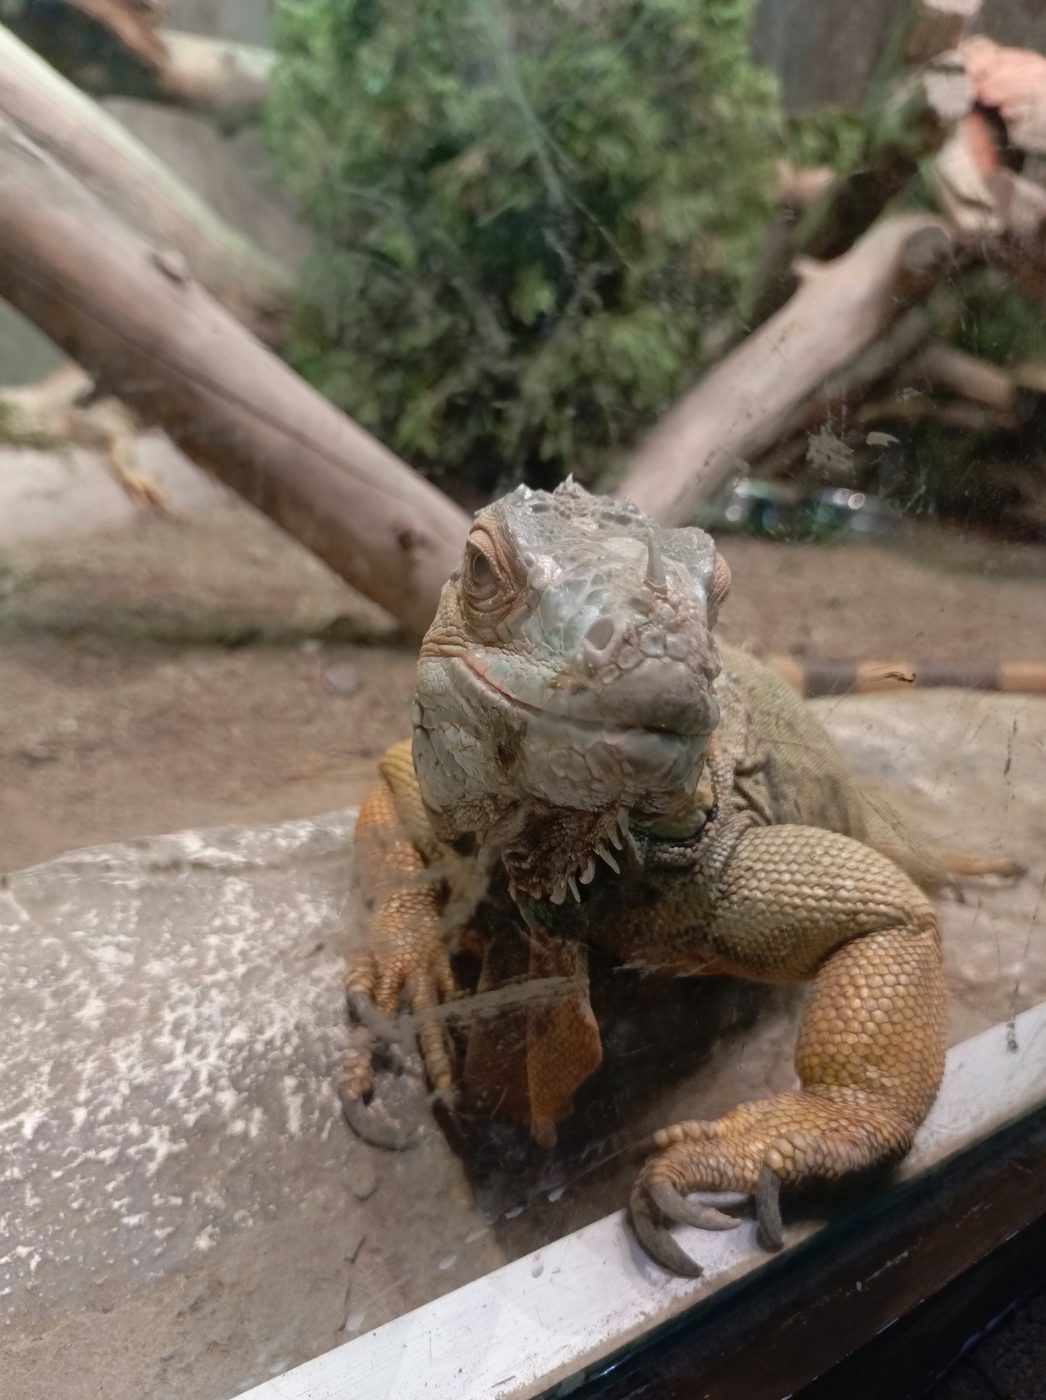
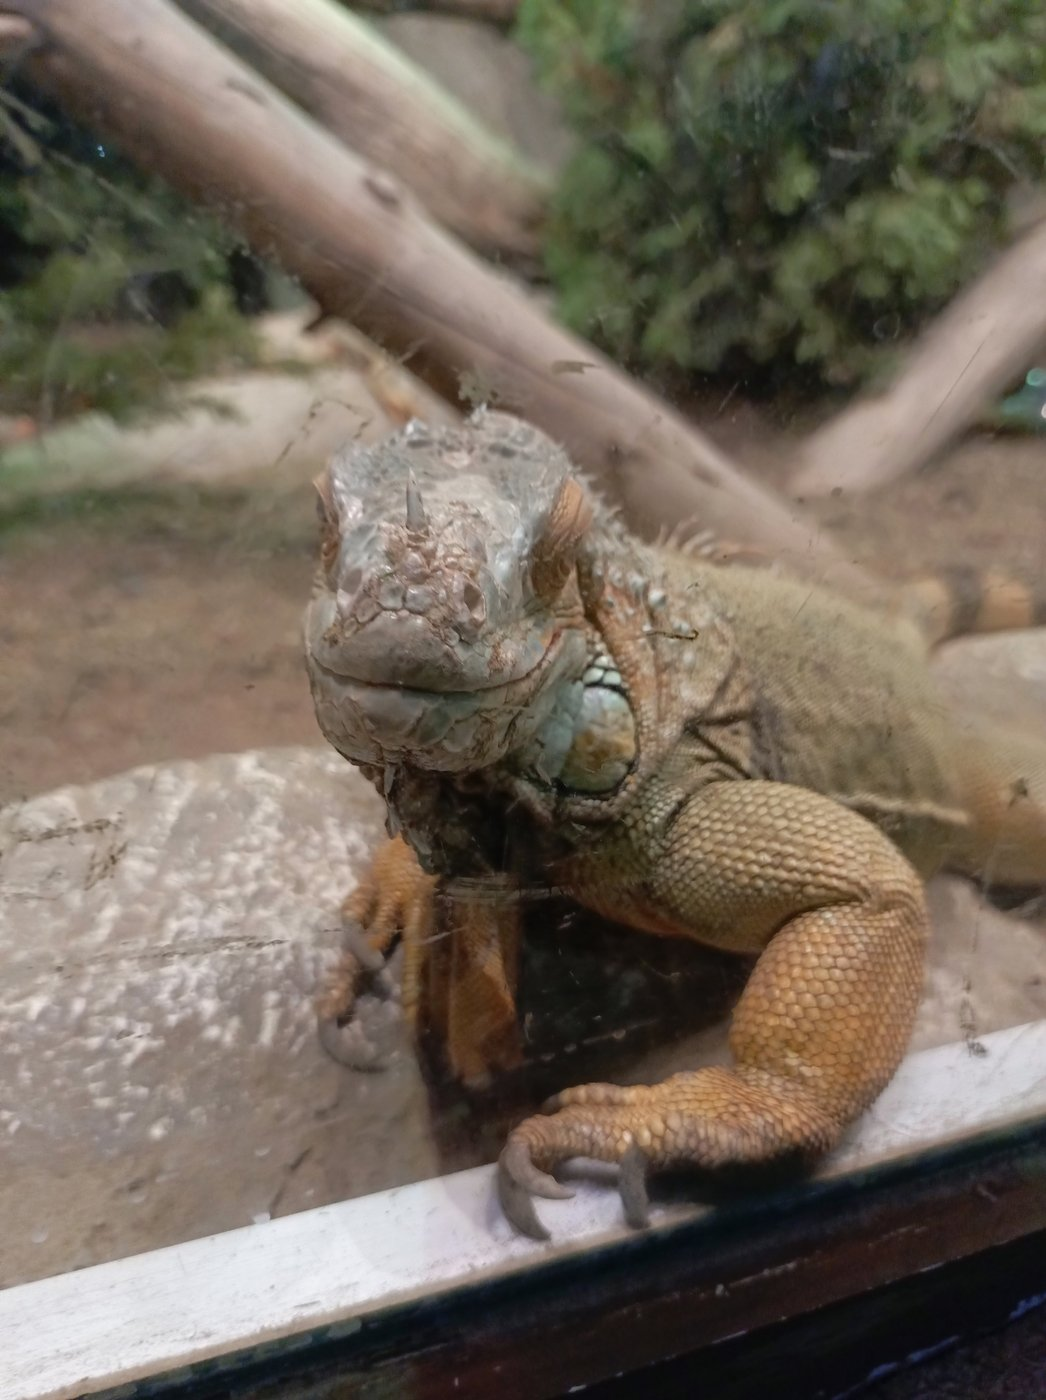
Iguana bolmesinde iki tabela (iguana, kertenkele); panolar uzakta bulanik, yaklasinca keskin (v122)
Claude-Session: https://claude.ai/code/session_01VUcbBKET9yQJHM8TdNdGgk

diff --git a/app.js b/app.js
@@ -3636,7 +3636,8 @@ const ES_FOTO = [   // x, z: odanın ortasına göre; dosya: foto/ klasöründe 
   { x: -3.7, z: -45.6, yazi: 'Tembel hayvan', dosya: 'foto/eskisehir-6.jpg', don: 0.9, olcek: 0.8 },
   { x: -3.7, z: -36.8, yazi: 'Lemur', dosya: 'foto/eskisehir-7.jpg', don: 0.9, olcek: 0.8 },
   { x: 3.7, z: -36.8, yazi: 'Dev kaplumbağa', dosya: 'foto/eskisehir-8.jpg', don: -0.9, olcek: 0.8 },
-  { x: 3.7, z: -45.6, yazi: 'İguana', dosya: 'foto/eskisehir-9.jpg', don: -0.9, olcek: 0.8 },
+  { x: 3.7, z: -44.7, yazi: 'İguana', dosya: 'foto/eskisehir-9.jpg', don: -0.9, olcek: 0.8 },
+  { x: 3.7, z: -46.7, yazi: 'Kertenkele', dosya: 'foto/eskisehir-12.jpg', don: -0.9, olcek: 0.8 },
   { x: -4.8, z: -52, yazi: 'Sazova', dosya: 'foto/eskisehir-10.jpg' },
   { x: 4.8, z: -52, yazi: 'Sazova', dosya: 'foto/eskisehir-11.jpg' }
 ];
@@ -3662,7 +3663,7 @@ ES_AGIL.forEach(a => esCitEngel(a).forEach(o => ES_ENGEL.push(o)));
 ES_FOTO.forEach(f => ES_ENGEL.push({ x: SX + f.x, z: SZ + f.z, r: 0.9 * (f.olcek || 1) }));
 const es = { aktif: false, hazir: false, bekle: false, girildi: false, grup: null, hemi: null, gun: null, kapiD: null, suDoku: null, kugu: [], fener: [], ampul: [], bayrak: [], hayvan: [], yansima: [], gunes: [], bulut: [], gece: 0, sonGece: -1,
   ipucuBitis: 0, yaziBitis: 0, yaziAcik: false, yaziMetin: '', sarkiBasladi: false, sarkiYazildi: false, muzikHedef: 0, domGun: null, domGece: null, ay: [], cesmeAkis: null, tezgah: null, don: { aktif: false, t0: 0 }, donG: null, zeminDis: null,
-  kayikta: false, kayikG: null, kopuk: [], kopukI: 0, kopukT: 0, band: [], dok: { x: SX - 6, z: SZ - 1.6 } };
+  kayikta: false, kayikG: null, kopuk: [], kopukI: 0, kopukT: 0, band: [], foto: [], dok: { x: SX - 6, z: SZ - 1.6 } };
 const donBtn = document.createElement('button'); donBtn.id = 'dondurmaBtn'; donBtn.textContent = 'Dondurma al'; document.body.appendChild(donBtn);
 const kayikBtn = document.createElement('button'); kayikBtn.id = 'kayikBtn'; kayikBtn.textContent = 'Kayığa bin'; document.body.appendChild(kayikBtn);
 const esRenkG = new THREE.Color(0xe8ae92), esRenkN = new THREE.Color(0x1d2650), esRenkT = new THREE.Color();
@@ -4043,8 +4044,11 @@ function esKur() {
     const ah = Lm(0x6b4a30); [-0.85, 0.85].forEach(dx => kt(0.1, 2.5, 0.1, ah, dx, 1.25, -0.06, gp));
     const cer = kt(2.1, 1.5, 0.08, new THREE.MeshPhongMaterial({ color: 0xd6b160, shininess: 80, specular: 0xffeeb0 }), 0, 1.95, 0, gp);
     const ic = tuval(512, 512), x = ic.getContext('2d'); x.fillStyle = '#efe4d0'; x.fillRect(0, 0, 512, 512); x.strokeStyle = 'rgba(200,160,100,.55)'; x.lineWidth = 6; x.setLineDash([14, 12]); x.strokeRect(34, 34, 444, 444); x.setLineDash([]); x.fillStyle = 'rgba(210,150,150,.4)'; x.font = '220px serif'; x.textAlign = 'center'; x.textBaseline = 'middle'; x.fillText('♥', 256, 270);
-    const net = new THREE.Mesh(new THREE.PlaneGeometry(1.9, 1.3), new THREE.MeshBasicMaterial({ map: new THREE.CanvasTexture(ic) })); net.position.set(0, 1.95, 0.05); gp.add(net);
-    if (f.dosya) yukleyici.load(f.dosya, tex => { tex.anisotropy = 4; const r = tex.image.width / tex.image.height, w = Math.min(2.2, 1.7 * r), h = w / r; net.material.map = tex; net.material.needsUpdate = true; net.scale.set(w / 1.9, h / 1.3, 1); cer.scale.set((w + 0.2) / 2.1, (h + 0.2) / 1.5, 1); }, undefined, () => {});
+    const net = new THREE.Mesh(new THREE.PlaneGeometry(1.9, 1.3), new THREE.MeshBasicMaterial({ map: new THREE.CanvasTexture(ic), color: 0x666666, fog: false })); net.position.set(0, 1.95, 0.05); gp.add(net);
+    const kayit = { net, bul: null, gx: X(f.x), gz: Z(f.z) }; es.foto.push(kayit);
+    if (f.dosya) yukleyici.load(f.dosya, tex => { tex.anisotropy = 8; const r = tex.image.width / tex.image.height, w = Math.min(2.2, 1.7 * r), h = w / r; net.material.map = tex; net.material.needsUpdate = true; net.scale.set(w / 1.9, h / 1.3, 1); cer.scale.set((w + 0.2) / 2.1, (h + 0.2) / 1.5, 1);
+      const bc = tuval(18, Math.max(8, Math.round(18 / r))); bc.getContext('2d').drawImage(tex.image, 0, 0, bc.width, bc.height); const bt = new THREE.CanvasTexture(bc); bt.magFilter = THREE.LinearFilter; bt.minFilter = THREE.LinearFilter;
+      const bul = new THREE.Mesh(new THREE.PlaneGeometry(1.9, 1.3), new THREE.MeshBasicMaterial({ map: bt, color: 0x444444, transparent: true, fog: false })); bul.position.set(0, 1.95, 0.058); bul.scale.set(w / 1.9, h / 1.3, 1); gp.add(bul); kayit.bul = bul; }, undefined, () => {});
     const pl = new THREE.Mesh(new THREE.PlaneGeometry(2.2, 0.4), new THREE.MeshBasicMaterial({ map: levha(f.yazi, 640, 120, 80, '#f3d58a'), transparent: true, depthWrite: false })); pl.position.set(0, 0.95, 0.02); gp.add(pl);
     parla(0, 2.95, 0.3, 2.2, 0.35, gp);
   });
@@ -4160,6 +4164,8 @@ function esGuncelle(dt, simdi) {
     const dd = Math.hypot(kon.x - es.dok.x, kon.z - es.dok.z), dm = Math.hypot(kon.x - (SX - 6), kon.z - (SZ - 5.5));
     kayikBtn.textContent = es.kayikta ? 'Kıyıya çık' : 'Kayığa bin';
     kayikBtn.classList.toggle('acik', (es.kayikta ? dm < 4.5 : dd < 3.2) && !kp.bekle && !fotoBak.classList.contains('acik')); }
+  // fotoğraflar: uzakta bulanık ve loş, yaklaşınca keskin ve parlak
+  es.foto.forEach(f => { const uz = Math.hypot(kon.x - f.gx, kon.z - f.gz), p = 0.3 + 0.7 * yumusak(34, 14, uz); f.net.material.color.setRGB(p, p, p); if (f.bul) { f.bul.material.color.setRGB(p, p, p); f.bul.material.opacity = 1 - yumusak(26, 12, uz); } });
   // kapı ve soru
   const kd = es.kapiD; kd.aci += ((kd.acik ? -1.9 : 0) - kd.aci) * Math.min(1, dt * 1.8); kd.hinge.rotation.y = kd.aci;
   const dx = kd.x - kon.x, dz = kd.z - kon.z, uz = Math.hypot(dx, dz), bak = (-Math.sin(kon.yaw) * dx - Math.cos(kon.yaw) * dz) / (uz || 1);

diff --git a/index.html b/index.html
@@ -44,6 +44,6 @@
 <div id="joy"><div id="joyTop"></div></div>
 
 <script src="https://cdnjs.cloudflare.com/ajax/libs/three.js/r128/three.min.js"></script>
-<script src="app.js?v=121"></script>
+<script src="app.js?v=122"></script>
 </body>
 </html>
